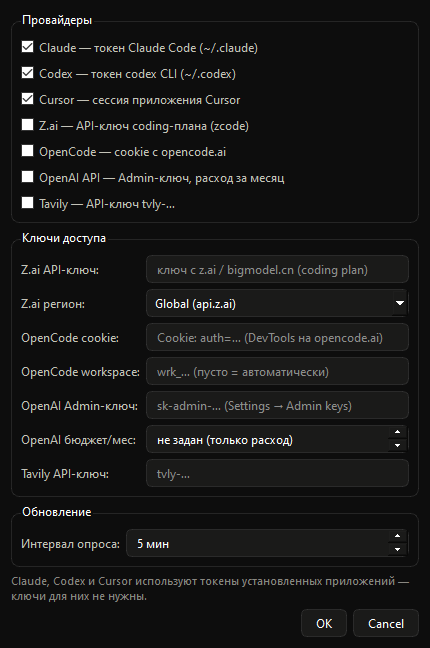
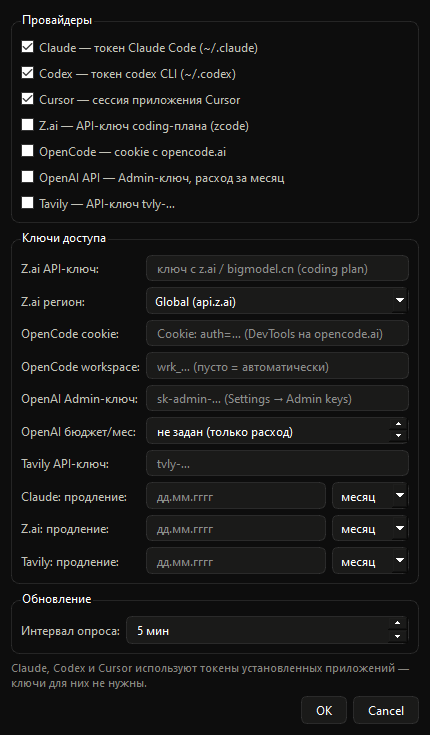
Universal renewal setting: exact date + cycle (month/quarter/year)
Day-of-month only worked for monthly plans; Z.ai can be yearly, others
quarterly. Settings now take the next renewal date (dd.mm.yyyy) and the
billing cycle; past dates roll forward by the cycle automatically. Legacy
*_billing_day values migrate to the nearest matching date on load.

diff --git a/aibar/providers/base.py b/aibar/providers/base.py
@@ -77,34 +77,46 @@ def format_date(dt: datetime | None) -> str:
     return dt.astimezone().strftime("%d.%m.%Y") if dt else ""
 
 
-def next_monthly_anniversary(anchor: datetime, now: datetime | None = None) -> datetime:
-    """Next monthly recurrence of the anchor's day-of-month (billing day)."""
-    now = now or datetime.now(timezone.utc)
-    year, month = now.year, now.month
-    for _ in range(3):
-        day = min(anchor.day, [31, 29 if year % 4 == 0 and (year % 100 != 0 or year % 400 == 0) else 28, 31, 30, 31, 30, 31, 31, 30, 31, 30, 31][month - 1])
-        candidate = now.replace(year=year, month=month, day=day, hour=anchor.hour, minute=anchor.minute, second=0, microsecond=0)
-        if candidate > now:
-            return candidate
-        month += 1
-        if month > 12:
-            month, year = 1, year + 1
-    return candidate
+PERIOD_MONTHS = {"month": 1, "quarter": 3, "year": 12}
+
+_MONTH_DAYS = [31, 28, 31, 30, 31, 30, 31, 31, 30, 31, 30, 31]
 
 
-def billing_renewal_date(cfg: dict | None, key: str) -> str:
-    """Next billing date from a user-set day-of-month setting ('' if unset).
+def add_months(dt: datetime, months: int) -> datetime:
+    """Shift by whole months, clamping the day (31 Jan + 1 mo -> 28/29 Feb)."""
+    total = dt.year * 12 + (dt.month - 1) + months
+    year, month = divmod(total, 12)
+    month += 1
+    leap = year % 4 == 0 and (year % 100 != 0 or year % 400 == 0)
+    max_day = 29 if month == 2 and leap else _MONTH_DAYS[month - 1]
+    return dt.replace(year=year, month=month, day=min(dt.day, max_day))
 
-    Providers whose APIs expose no billing anchor rely on this.
+
+def subscription_renewal(cfg: dict | None, prefix: str) -> str:
+    """Next renewal date from user settings ('' if unset).
+
+    For providers whose APIs expose no billing anchor: the user enters a paid
+    date (<prefix>_renewal_date) and cycle (<prefix>_renewal_period:
+    month/quarter/year); past dates roll forward by the cycle automatically.
     """
-    try:
-        day = int((cfg or {}).get(key) or 0)
-    except (TypeError, ValueError):
+    raw = str((cfg or {}).get(f"{prefix}_renewal_date") or "").strip()
+    if not raw:
         return ""
-    if not 1 <= day <= 31:
+    for fmt in ("%d.%m.%Y", "%Y-%m-%d", "%d.%m.%y"):
+        try:
+            dt = datetime.strptime(raw, fmt).replace(tzinfo=timezone.utc)
+            break
+        except ValueError:
+            continue
+    else:
         return ""
-    anchor = datetime(2000, 1, day, tzinfo=timezone.utc)
-    return format_date(next_monthly_anniversary(anchor))
+    months = PERIOD_MONTHS.get((cfg or {}).get(f"{prefix}_renewal_period") or "month", 1)
+    now = datetime.now(timezone.utc)
+    for _ in range(600):  # bounded roll-forward
+        if dt >= now:
+            break
+        dt = add_months(dt, months)
+    return format_date(dt)
 
 
 def looks_like_api_key(value: str) -> bool:

diff --git a/aibar/ui/settings.py b/aibar/ui/settings.py
@@ -8,10 +8,12 @@ from PySide6.QtWidgets import (
     QDialogButtonBox,
     QFormLayout,
     QGroupBox,
+    QHBoxLayout,
     QLabel,
     QLineEdit,
     QSpinBox,
     QVBoxLayout,
+    QWidget,
 )
 
 from .. import theme
@@ -98,19 +100,29 @@ class SettingsDialog(QDialog):
         self.tavily_key = QLineEdit(cfg.get("tavily_api_key") or "")
         self.tavily_key.setEchoMode(QLineEdit.Password)
         self.tavily_key.setPlaceholderText("tvly-…")
-        def billing_day_spin(key: str) -> QSpinBox:
-            spin = QSpinBox()
-            spin.setRange(0, 31)
-            spin.setSpecialValueText("не задан")
-            spin.setToolTip(
-                "День месяца, когда списывается оплата, — API эту дату не отдаёт"
+        def renewal_row(prefix: str) -> tuple[QWidget, QLineEdit, QComboBox]:
+            date_edit = QLineEdit(cfg.get(f"{prefix}_renewal_date") or "")
+            date_edit.setPlaceholderText("дд.мм.гггг")
+            date_edit.setToolTip(
+                "Дата ближайшего продления — API её не отдаёт. "
+                "Прошедшая дата сдвигается на период автоматически."
             )
-            spin.setValue(int(cfg.get(key) or 0))
-            return spin
+            period = QComboBox()
+            for value, label in (("month", "месяц"), ("quarter", "квартал"), ("year", "год")):
+                period.addItem(label, value)
+            current = cfg.get(f"{prefix}_renewal_period") or "month"
+            period.setCurrentIndex(max(0, ["month", "quarter", "year"].index(current) if current in ("month", "quarter", "year") else 0))
+            box = QWidget()
+            row = QHBoxLayout(box)
+            row.setContentsMargins(0, 0, 0, 0)
+            row.addWidget(date_edit, stretch=1)
+            row.addWidget(period)
+            return box, date_edit, period
 
-        self.claude_billing_day = billing_day_spin("claude_billing_day")
-        self.zai_billing_day = billing_day_spin("zai_billing_day")
-        self.tavily_billing_day = billing_day_spin("tavily_billing_day")
+        claude_box, self.claude_renewal_date, self.claude_renewal_period = renewal_row("claude")
+        zai_box, self.zai_renewal_date, self.zai_renewal_period = renewal_row("zai")
+        tavily_box, self.tavily_renewal_date, self.tavily_renewal_period = renewal_row("tavily")
+        self._renewal_rows = {"claude": claude_box, "zai": zai_box, "tavily": tavily_box}
         keys_layout.addRow("Z.ai API-ключ:", self.zai_key)
         keys_layout.addRow("Z.ai регион:", self.zai_region)
         keys_layout.addRow("OpenCode cookie:", self.opencode_cookie)
@@ -118,9 +130,9 @@ class SettingsDialog(QDialog):
         keys_layout.addRow("OpenAI Admin-ключ:", self.openai_key)
         keys_layout.addRow("OpenAI бюджет/мес:", self.openai_budget)
         keys_layout.addRow("Tavily API-ключ:", self.tavily_key)
-        keys_layout.addRow("Claude: день оплаты:", self.claude_billing_day)
-        keys_layout.addRow("Z.ai: день оплаты:", self.zai_billing_day)
-        keys_layout.addRow("Tavily: день оплаты:", self.tavily_billing_day)
+        keys_layout.addRow("Claude: продление:", self._renewal_rows["claude"])
+        keys_layout.addRow("Z.ai: продление:", self._renewal_rows["zai"])
+        keys_layout.addRow("Tavily: продление:", self._renewal_rows["tavily"])
 
         misc_box = QGroupBox("Обновление")
         misc_layout = QFormLayout(misc_box)
@@ -157,8 +169,11 @@ class SettingsDialog(QDialog):
         cfg["openai_admin_key"] = self.openai_key.text().strip()
         cfg["openai_budget_usd"] = self.openai_budget.value()
         cfg["tavily_api_key"] = self.tavily_key.text().strip()
-        cfg["claude_billing_day"] = self.claude_billing_day.value()
-        cfg["zai_billing_day"] = self.zai_billing_day.value()
-        cfg["tavily_billing_day"] = self.tavily_billing_day.value()
+        cfg["claude_renewal_date"] = self.claude_renewal_date.text().strip()
+        cfg["claude_renewal_period"] = self.claude_renewal_period.currentData()
+        cfg["zai_renewal_date"] = self.zai_renewal_date.text().strip()
+        cfg["zai_renewal_period"] = self.zai_renewal_period.currentData()
+        cfg["tavily_renewal_date"] = self.tavily_renewal_date.text().strip()
+        cfg["tavily_renewal_period"] = self.tavily_renewal_period.currentData()
         cfg["refresh_seconds"] = self.interval.value() * 60
         return cfg

diff --git a/aibar/config.py b/aibar/config.py
@@ -19,12 +19,29 @@ DEFAULTS = {
     "openai_admin_key": "",
     "openai_budget_usd": 0,  # 0 = ring off, show spend only
     "tavily_api_key": "",
-    # Day of month the provider bills (their APIs expose no billing anchor);
-    # 0 = don't show the renewal date
-    "claude_billing_day": 0,
-    "zai_billing_day": 0,
-    "tavily_billing_day": 0,
+    # Renewal date (dd.mm.yyyy) + cycle for providers whose APIs expose no
+    # billing anchor; empty date = don't show. Past dates roll forward.
+    "claude_renewal_date": "",
+    "claude_renewal_period": "month",  # month | quarter | year
+    "zai_renewal_date": "",
+    "zai_renewal_period": "month",
+    "tavily_renewal_date": "",
+    "tavily_renewal_period": "month",
 }
+
+
+def _migrate(data: dict) -> dict:
+    """Convert legacy <p>_billing_day (day of month) to <p>_renewal_date."""
+    from datetime import date, timedelta
+
+    for prefix in ("claude", "zai", "tavily"):
+        day = data.pop(f"{prefix}_billing_day", 0) or 0
+        if 1 <= int(day) <= 31 and not data.get(f"{prefix}_renewal_date"):
+            candidate = date.today()
+            while candidate.day != int(day):  # next occurrence of that day
+                candidate += timedelta(days=1)
+            data[f"{prefix}_renewal_date"] = candidate.strftime("%d.%m.%Y")
+    return data
 
 
 def load() -> dict:
@@ -33,7 +50,7 @@ def load() -> dict:
         data = json.loads(CONFIG_PATH.read_text(encoding="utf-8-sig"))
     except (FileNotFoundError, json.JSONDecodeError):
         return dict(DEFAULTS)
-    return {**DEFAULTS, **data}
+    return {**DEFAULTS, **_migrate(data)}
 
 
 def save(config: dict) -> None:

diff --git a/aibar/providers/claude.py b/aibar/providers/claude.py
@@ -13,8 +13,8 @@ import requests
 from .base import (
     ProviderSnapshot,
     RateWindow,
-    billing_renewal_date,
     parse_iso8601,
+    subscription_renewal,
 )
 
 USAGE_URL = "https://api.anthropic.com/api/oauth/usage"
@@ -109,9 +109,8 @@ def fetch(cfg: dict | None = None) -> ProviderSnapshot:
     _apply_profile(snap, headers=resp.request.headers)
 
     # The API exposes no renewal date (subscription_created_at is not the
-    # billing anchor after plan changes), so the billing day comes from
-    # settings when the user provides it.
-    renewal = billing_renewal_date(cfg, "claude_billing_day")
+    # billing anchor after plan changes), so it comes from settings.
+    renewal = subscription_renewal(cfg, "claude")
     if renewal:
         snap.extra["Продление"] = renewal
     return snap

diff --git a/aibar/providers/tavily.py b/aibar/providers/tavily.py
@@ -12,8 +12,8 @@ import requests
 from .base import (
     ProviderSnapshot,
     RateWindow,
-    billing_renewal_date,
     looks_like_api_key,
+    subscription_renewal,
 )
 
 USAGE_URL = "https://api.tavily.com/usage"
@@ -85,7 +85,7 @@ def fetch(cfg: dict | None = None) -> ProviderSnapshot:
     elif key_info.get("usage") is not None and not snap.extra:
         snap.extra["Использовано ключом"] = f"{key_info['usage']:g}"
 
-    renewal = billing_renewal_date(cfg, "tavily_billing_day")
+    renewal = subscription_renewal(cfg, "tavily")
     if renewal:
         snap.extra["Продление"] = renewal
 

diff --git a/aibar/providers/zai.py b/aibar/providers/zai.py
@@ -12,9 +12,9 @@ import requests
 from .base import (
     ProviderSnapshot,
     RateWindow,
-    billing_renewal_date,
     looks_like_api_key,
     parse_unix,
+    subscription_renewal,
 )
 
 HOSTS = {
@@ -139,7 +139,7 @@ def fetch(cfg: dict | None = None) -> ProviderSnapshot:
     if not snap.windows:
         snap.error = "API не вернул ни одного лимита"
 
-    renewal = billing_renewal_date(cfg, "zai_billing_day")
+    renewal = subscription_renewal(cfg, "zai")
     if renewal:
         snap.extra["Продление"] = renewal
     return snap

diff --git a/README.md b/README.md
@@ -101,15 +101,20 @@ pyinstaller --noconfirm --clean --onefile --windowed --name AIBar --icon assets\
   "openai_admin_key": "",
   "openai_budget_usd": 0,
   "tavily_api_key": "",
-  "claude_billing_day": 0,
-  "zai_billing_day": 0,
-  "tavily_billing_day": 0
+  "claude_renewal_date": "08.08.2026",
+  "claude_renewal_period": "month",
+  "zai_renewal_date": "",
+  "zai_renewal_period": "year",
+  "tavily_renewal_date": "",
+  "tavily_renewal_period": "month"
 }
 ```
 
-`*_billing_day` — день месяца, когда списывается оплата (эти API не отдают
-дату продления); задаёт строку «Продление» в карточке, 0 — не показывать.
-У Codex и Cursor дата продления берётся из API автоматически.
+`*_renewal_date` / `*_renewal_period` — дата ближайшего продления и период
+подписки (`month` / `quarter` / `year`) для провайдеров, чьи API не отдают
+дату списания; прошедшая дата автоматически сдвигается на период вперёд.
+Пустая дата — строка «Продление» не показывается. У Codex и Cursor дата
+берётся из API автоматически.
 
 Всё это редактируется через диалог «Настройки…» — руками файл трогать не нужно.
 